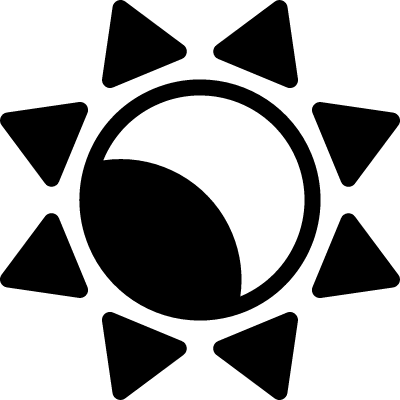
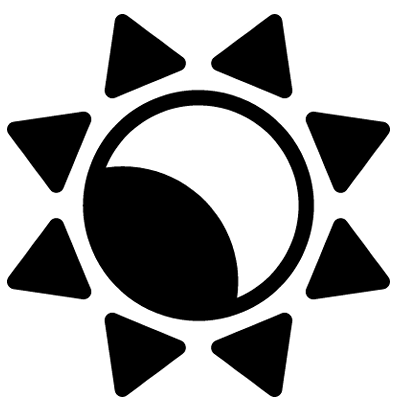
Button update

diff --git a/src/components/routes/Router.js b/src/components/routes/Router.js
@@ -4,8 +4,15 @@ import Header from './Header/Header';
 import Home from '../Home/Home';
 import Works from '../Works/Works';
 import About from '../About/About';
+import SnMn_up from '../../Assets/SnMn_up.png';
 import SnMn from '../../Assets/SnMn.png';
 import styled from 'styled-components';
+
+const [activeImg, setActiveImg] = useState('SnMn_up.png');
+
+const handleClick = () => {
+	setActiveImg(activeImage === 'SnMn_up.png' ? 'SnMn.png' : 'SnMn_up.png');
+};
 
 const RoutesS = styled(Routes)``;
 
@@ -35,8 +42,9 @@ export default function Router({ show, toggleTheme }) {
 				value="Alternar entre tema escuro e claro"
 				onClick={() => {
 					toggleTheme();
+					handleClick();
 				}}>
-				<img src={SnMn} />
+				<img src={activeImg} />
 			</Theme>
 			<RoutesS>
 				<Route path="/" element={<Home />} />
